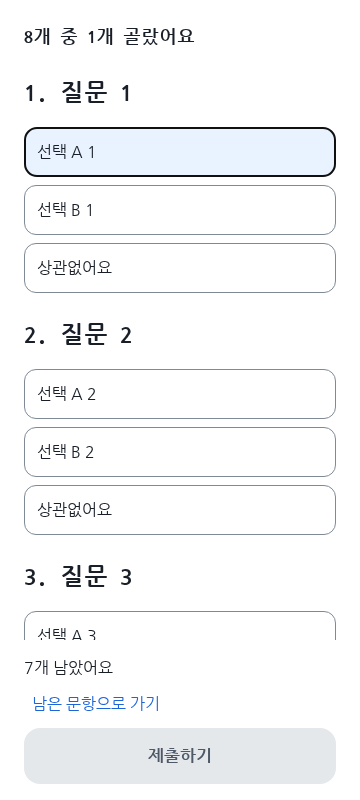
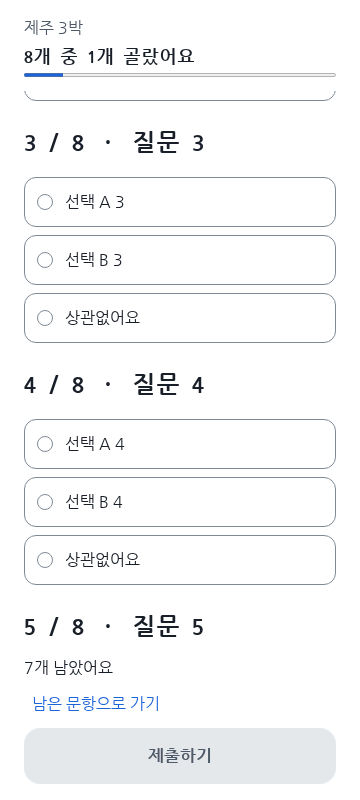
TASK-041: harden answer storage and show accessible progress

diff --git a/apps/web/src/Questions.tsx b/apps/web/src/Questions.tsx
@@ -2,6 +2,7 @@ import React from 'react';
 import { Button } from '@toss/tds-mobile';
 import { logInterimCard } from './analytics';
 import { ApiError } from './api';
+import { ANSWER_KEY_PREFIX, readAnswers, writeAnswers, removeAnswers } from './answer-storage';
 import { entryContext } from './entry-context';
 import { navigate } from './routes';
 import { roomContext } from './room-context';
@@ -12,7 +13,7 @@ type Question = { position: number; prompt: string; optionA: string; optionB: st
 type Answers = Record<number, Choice>;
 async function storageKey(code: string): Promise<string> {
   const hash = await crypto.subtle.digest('SHA-256', new TextEncoder().encode(code));
-  return 'answers:' + Array.from(new Uint8Array(hash), x => x.toString(16).padStart(2, '0')).join('');
+  return ANSWER_KEY_PREFIX + Array.from(new Uint8Array(hash), x => x.toString(16).padStart(2, '0')).join('');
 }
 export function Questions() {
   const [questions, setQuestions] = React.useState<Question[]>(); const [answers, setAnswers] = React.useState<Answers>({});
@@ -26,8 +27,8 @@ export function Questions() {
     if (err instanceof ApiError && err.problem.code === 'origin_not_allowed') setPermission(true);
     else if (err instanceof ApiError && err.problem.code === 'not_participant') navigate('/room', true);
     else if (err instanceof ApiError && err.problem.code === 'room_not_found') setMissing(true);
-    else if (err instanceof ApiError && err.problem.code === 'room_closed') { if (storageRef.current) localStorage.removeItem(storageRef.current); roomContext.closedNotice = true; navigate('/room/final', true); }
-    else if (err instanceof ApiError && err.problem.code === 'already_submitted') { if (storageRef.current) localStorage.removeItem(storageRef.current); roomContext.alreadySubmitted = true; navigate('/room/result', true); }
+    else if (err instanceof ApiError && err.problem.code === 'room_closed') { if (storageRef.current) removeAnswers(storageRef.current); roomContext.closedNotice = true; navigate('/room/final', true); }
+    else if (err instanceof ApiError && err.problem.code === 'already_submitted') { if (storageRef.current) removeAnswers(storageRef.current); roomContext.alreadySubmitted = true; navigate('/room/result', true); }
     else if (err instanceof ApiError && ['unauthenticated', 'reauthentication_failed'].includes(err.problem.code)) { sessionState.reauthenticationFailed = true; navigate('/', true); }
     else if (err instanceof ApiError && err.problem.code === 'validation_failed') {
       const position = err.problem.errors?.flatMap(item => item.positions || []).find(value => Number.isInteger(value) && value >= 1 && value <= 8);
@@ -41,9 +42,9 @@ export function Questions() {
     const timer = setTimeout(() => setLoading(true), 1000); setError(undefined);
     try {
       const storage = await storageKey(entryContext.room); storageRef.current = storage; setKey(storage);
-      try { setAnswers(JSON.parse(localStorage.getItem(storage) || '{}')); } catch { setAnswers({}); }
+      setAnswers(readAnswers<Answers>(storage, {}));
       const data = await client.operation<{ questions: Question[] }>(`${path}/questions`)();
-      if (data.questions.length !== 8) throw new Error('invalid question count');
+      if (data.questions.length !== 8) { console.error('client request error'); throw new Error('invalid question count'); }
       setQuestions(data.questions);
     } catch (err) { handle(err); } finally { clearTimeout(timer); setLoading(false); }
   }, [handle, path]);
@@ -54,7 +55,7 @@ export function Questions() {
   function choose(position: number, choice: Choice) {
     if (invalidPosition === position) setInvalidPosition(undefined);
     const next = { ...answers, [position]: choice }; setAnswers(next); operation.current = undefined;
-    if (key) localStorage.setItem(key, JSON.stringify(next));
+    if (key) writeAnswers(key, next);
   }
   async function submit() {
     if (!questions || count !== 8 || saving || seconds) return;
@@ -62,7 +63,7 @@ export function Questions() {
     try {
       operation.current ??= client.operation(`${path}/responses`, { method: 'POST', idempotent: true, body: { answers: questions.map(q => ({ position: q.position, choice: answers[q.position] })) } });
       const result = await operation.current();
-      if (key) localStorage.removeItem(key);
+      if (key) removeAnswers(key);
       if (result.logConversion) logInterimCard();
       if (result.roomStatus === 'closed') roomContext.closedNotice = true;
       navigate('/room/result', true);
@@ -70,10 +71,10 @@ export function Questions() {
   }
   if (permission) return <main className="entry"><section className="entry-content"><h1>지금은 쓸 수 없어요</h1></section></main>;
   if (missing) return <main className="create"><h1>이 방은 없거나 보관 기간이 지났어요</h1><Button display="block" onClick={() => navigate('/rooms/new')}>방 만들기</Button></main>;
-  return <main className="questions"><header><h1>8개 중 {count}개 골랐어요</h1>{roomContext.nicknameRoom === entryContext.room && roomContext.nickname && <p>{roomContext.nickname} 님으로 참여 중</p>}</header>
+  return <main className="questions"><header>{roomContext.name && <p>{roomContext.name}</p>}<h1>8개 중 {count}개 골랐어요</h1><progress role="progressbar" aria-label="문항 선택 진행" aria-valuemin={0} aria-valuemax={8} aria-valuenow={count} value={count} max={8} />{roomContext.nicknameRoom === entryContext.room && roomContext.nickname && <p>{roomContext.nickname} 님으로 참여 중</p>}</header>
     {error !== undefined && <div role="alert"><p>{questions ? '제출하지 못했어요. 고른 답은 그대로예요' : '잠시 뒤 다시 해 주세요'}</p>{error && <p>오류 번호 {error}</p>}{!questions && <button className="link-button" onClick={() => void load()}>다시 시도</button>}</div>}
     {!questions && loading && <div className="skeletons" role="status"><span /><span /><span /><span className="sr-only">불러오고 있어요</span></div>}
-    {questions?.map(q => <fieldset disabled={saving} key={q.position} id={`question-${q.position}`}><legend>{q.position}. {q.prompt}</legend>{invalidPosition === q.position && <p role="alert">아직 고르지 않았어요</p>}{([['A', q.optionA], ['B', q.optionB], ['none', '상관없어요']] as const).map(([choice, label]) => <button type="button" className="choice" aria-pressed={answers[q.position] === choice} key={choice} onClick={() => choose(q.position, choice)}>{label}</button>)}</fieldset>)}
+    {questions?.map(q => <fieldset disabled={saving} key={q.position} id={`question-${q.position}`}><legend>{q.position} / 8 · {q.prompt}</legend>{invalidPosition === q.position && <p role="alert">아직 고르지 않았어요</p>}{([['A', q.optionA], ['B', q.optionB], ['none', '상관없어요']] as const).map(([choice, label]) => <button type="button" className="choice" aria-pressed={answers[q.position] === choice} key={choice} onClick={() => choose(q.position, choice)}><span className="choice-dot" aria-hidden="true" /><span>{label}</span></button>)}</fieldset>)}
     {questions && <div className="create-action"><p>{8 - count}개 남았어요</p>{count < 8 && <button className="link-button" onClick={() => { const position = questions.find(q => !answers[q.position])?.position; setInvalidPosition(position); document.getElementById(`question-${position}`)?.scrollIntoView(); }}>남은 문항으로 가기</button>}<Button display="block" loading={saving} disabled={count !== 8 || saving || seconds > 0} onClick={() => void submit()}>{seconds ? `다시 시도 (${seconds}초)` : error !== undefined ? '다시 시도' : '제출하기'}</Button></div>}
   </main>;
 }

diff --git a/apps/web/e2e/questions.spec.ts b/apps/web/e2e/questions.spec.ts
@@ -3,11 +3,11 @@ const cors = { 'Access-Control-Allow-Origin': '*', 'Access-Control-Allow-Headers
 const code = 'ABCDEFGH23';
 const room = { roomCode: code, gatheringName: '제주 3박', theme: { themeId: 'travel', name: '여행' }, partySize: 4, submittedCount: 1, isFull: false, status: 'open', myRole: 'member', mySubmitted: false, asOf: '2026-11-28T09:30:00Z' };
 const questions = Array.from({ length: 8 }, (_, i) => ({ position: i + 1, prompt: `질문 ${i + 1}`, optionA: `선택 A ${i + 1}`, optionB: `선택 B ${i + 1}` }));
-async function enter(page: Page) {
+async function enter(page: Page, conversion = false) {
   await page.route('**/v1/me/rooms', route => route.fulfill({ headers: cors, json: { rooms: [room], asOf: room.asOf } }));
   await page.route('**/v1/rooms/**', route => {
     if (route.request().method() === 'OPTIONS') return route.fulfill({ status: 204, headers: cors });
-    if (route.request().method() === 'POST') return route.fulfill({ status: 201, headers: cors, json: { logConversion: false, roomStatus: 'open' } });
+    if (route.request().method() === 'POST') return route.fulfill({ status: 201, headers: cors, json: { logConversion: conversion, roomStatus: 'open' } });
     return route.fulfill({ headers: cors, json: route.request().url().endsWith('/questions') ? { questionSetVersion: 1, questions } : room });
   });
   await page.goto('/home'); await page.getByRole('button', { name: /제주 3박/ }).click();
@@ -17,6 +17,8 @@ test('답을 저장하고 다시 열어 나머지를 고른 뒤 제출한다', a
   await page.setViewportSize({ width: 360, height: 800 }); await enter(page);
   await page.getByRole('button', { name: '선택 A 1', exact: true }).click();
   await expect(page.getByRole('heading', { name: '8개 중 1개 골랐어요' })).toBeVisible();
+  await expect(page.getByRole('progressbar', { name: '문항 선택 진행' })).toHaveAttribute('aria-valuenow', '1');
+  await page.evaluate(() => window.scrollTo(0, 500)); await expect(page.locator('.questions header')).toHaveCSS('position', 'sticky');
   await expect(page.getByRole('button', { name: '제출하기' })).toBeDisabled();
   const disabled = await page.getByRole('button', { name: '제출하기' }).evaluate(e => ({ opacity: getComputedStyle(e).opacity, background: getComputedStyle(e.querySelector('div')!).backgroundColor, color: getComputedStyle(e.querySelector('span')!).color }));
   expect(disabled).toEqual({ opacity: '1', background: 'rgb(229, 232, 235)', color: 'rgb(78, 89, 104)' });
@@ -27,4 +29,16 @@ test('답을 저장하고 다시 열어 나머지를 고른 뒤 제출한다', a
   await expect(page.getByRole('button', { name: '제출하기' })).toBeEnabled();
   await page.getByRole('button', { name: '제출하기' }).click(); await expect(page).toHaveURL(/\/room\/result$/);
   expect(await page.evaluate(() => Object.keys(localStorage).some(k => k.includes('ABCDEFGH23')))).toBe(false);
+});
+for (const blocked of ['all', 'remove'] as const) test(`기기 저장소 ${blocked} 오류에도 답을 제출한다`, async ({ page }) => {
+  await page.addInitScript(mode => {
+    if (mode === 'all') Object.defineProperty(window, 'localStorage', { configurable: true, get() { throw new DOMException('blocked', 'SecurityError'); } });
+    else Storage.prototype.removeItem = () => { throw new DOMException('blocked', 'SecurityError'); };
+  }, blocked);
+  await page.route('**/src/analytics.ts*', route => route.fulfill({ contentType: 'application/javascript', body: 'export function logInterimCard() { window.__conversionCount = (window.__conversionCount || 0) + 1; }' }));
+  await enter(page, true);
+  for (let n = 1; n <= 8; n++) await page.getByRole('button', { name: `선택 A ${n}`, exact: true }).click();
+  await expect(page.getByRole('progressbar', { name: '문항 선택 진행' })).toHaveAttribute('aria-valuenow', '8');
+  await page.getByRole('button', { name: '제출하기' }).click(); await expect(page).toHaveURL(/\/room\/result$/);
+  expect(await page.evaluate(() => (window as Window & { __conversionCount?: number }).__conversionCount)).toBe(1);
 });

diff --git a/apps/web/src/style.css b/apps/web/src/style.css
@@ -80,3 +80,11 @@ div[role="alert"] h2 { font-size: var(--font-size-heading); margin: 0; }
 .questions .create-action button:disabled span { color: var(--color-disabled-text) !important; }
 
 .entry-actions button:disabled, .create-action button:disabled { opacity: 1 !important; }
+
+.questions header { position: sticky; top: 0; z-index: 2; background: var(--color-bg-page); padding: var(--space-3) 0; }
+.questions header p { margin: var(--space-1) 0; color: var(--color-text-secondary); }
+.questions progress { display: block; width: 100%; height: var(--space-2); accent-color: var(--color-accent-default); }
+.choice { display: flex; align-items: center; gap: var(--space-3); }
+.choice-dot { width: var(--space-4); height: var(--space-4); flex: none; box-sizing: border-box; border-width: 1px; border-style: solid; border-color: var(--color-border-control); border-radius: var(--radius-pill); }
+.choice[aria-pressed="true"] { border-width: 2px; font-weight: var(--font-weight-bold); }
+.choice[aria-pressed="true"] .choice-dot { background: var(--color-accent-default); border-color: var(--color-accent-default); }

diff --git a/apps/web/src/CreateRoom.tsx b/apps/web/src/CreateRoom.tsx
@@ -44,7 +44,7 @@ export function RoomDetails() {
     setLoading(true); setError(undefined); setErrors({});
     try {
       operation.current ??= client.operation<{ roomCode: string }>('/v1/rooms', { method: 'POST', idempotent: true, body: { themeId: roomDraft.theme.themeId, gatheringName: nameValid.value, partySize: size, hostNickname: nickValid.value } });
-      const result = await operation.current(); entryContext.room = result.roomCode; roomContext.nickname = nickValid.value; roomContext.nicknameRoom = result.roomCode; navigate('/room/questions', true);
+      const result = await operation.current(); entryContext.room = result.roomCode; roomContext.name = nameValid.value; roomContext.nickname = nickValid.value; roomContext.nicknameRoom = result.roomCode; navigate('/room/questions', true);
     } catch (err) {
       if (err instanceof ApiError && err.problem.code === 'origin_not_allowed') setPermission(true);
       else if (err instanceof ApiError && ['unauthenticated', 'reauthentication_failed'].includes(err.problem.code)) { sessionState.reauthenticationFailed = true; navigate('/', true); }

diff --git a/apps/web/src/answer-storage.ts b/apps/web/src/answer-storage.ts
@@ -1,0 +1,13 @@
+export const ANSWER_KEY_PREFIX = 'answers:';
+export function readAnswers<T>(key: string, fallback: T): T {
+  try { const value = localStorage.getItem(key); return value ? JSON.parse(value) as T : fallback; } catch { return fallback; }
+}
+export function writeAnswers(key: string, value: unknown): void {
+  try { localStorage.setItem(key, JSON.stringify(value)); } catch { /* Keep the current screen usable if storage is unavailable. */ }
+}
+export function removeAnswers(key: string): void {
+  try { localStorage.removeItem(key); } catch { /* Submission is already complete. */ }
+}
+export function clearAllAnswers(): void {
+  try { for (let i = localStorage.length - 1; i >= 0; i--) { const key = localStorage.key(i); if (key?.startsWith(ANSWER_KEY_PREFIX)) localStorage.removeItem(key); } } catch { /* Storage may be unavailable. */ }
+}

diff --git a/docs/08-screens/SCR-015.md b/docs/08-screens/SCR-015.md
@@ -45,7 +45,7 @@
 ## 규칙
 
 - 본문 문구는 출시 준비 전에 써요. 이 정의는 화면 구조와 꼭 적을 항목만 정해요.
-- TASK-049에 다음 문구의 자리를 표시해요: "앱 이용 통계를 토스에 보내며, 토스가 미니앱별 익명 키를 함께 기록해요". 운영자 표기 U-5와 함께 월요일 사용자님 화면 확인을 기다려요(DEC-071).
+- TASK-049에 다음 문구의 자리를 표시해요: "앱 이용 통계를 토스에 보내며, 토스가 미니앱별 익명 키를 함께 기록해요". 운영자 표기 U-5와 함께 2026-11-30 사용자님 화면 확인을 기다려요(DEC-071).
 
 ## 목업
 
